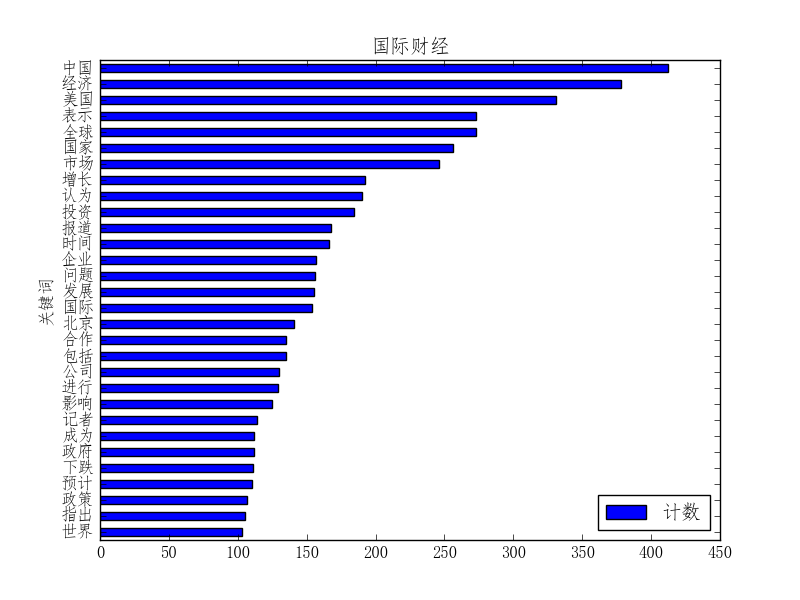
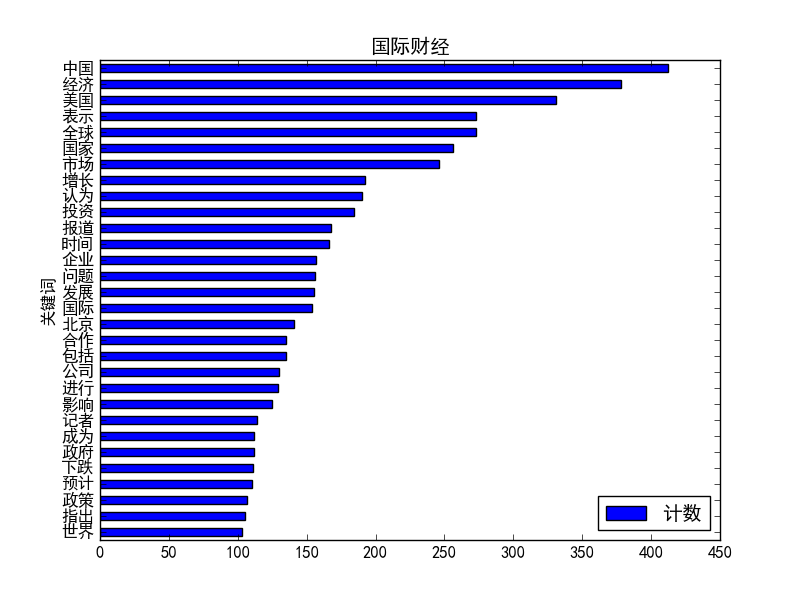
分词结果

diff --git a/data_preprocess/fenci.py b/data_preprocess/fenci.py
@@ -136,7 +136,7 @@ def get_one_article_keys(content):
 #文件名: ch.py
 def set_ch():
     from pylab import mpl
-    mpl.rcParams['font.sans-serif'] = ['FangSong'] # 指定默认字体
+    mpl.rcParams['font.sans-serif'] = ['SimHei']#['FangSong'] # 指定默认字体
     mpl.rcParams['axes.unicode_minus'] = False # 解决保存图像是负号'-'显示为方块的问题
 
 set_ch()
@@ -171,7 +171,7 @@ def test_fenci():
         f.close()
     print 'end'
 
-    with pd.ExcelWriter('keys.xlsx') as writer:
+    with pd.ExcelWriter('Data/keys.xlsx') as writer:
         for key, df in dfs:
             print key
             df.to_excel(writer, sheet_name=key, index=False)
